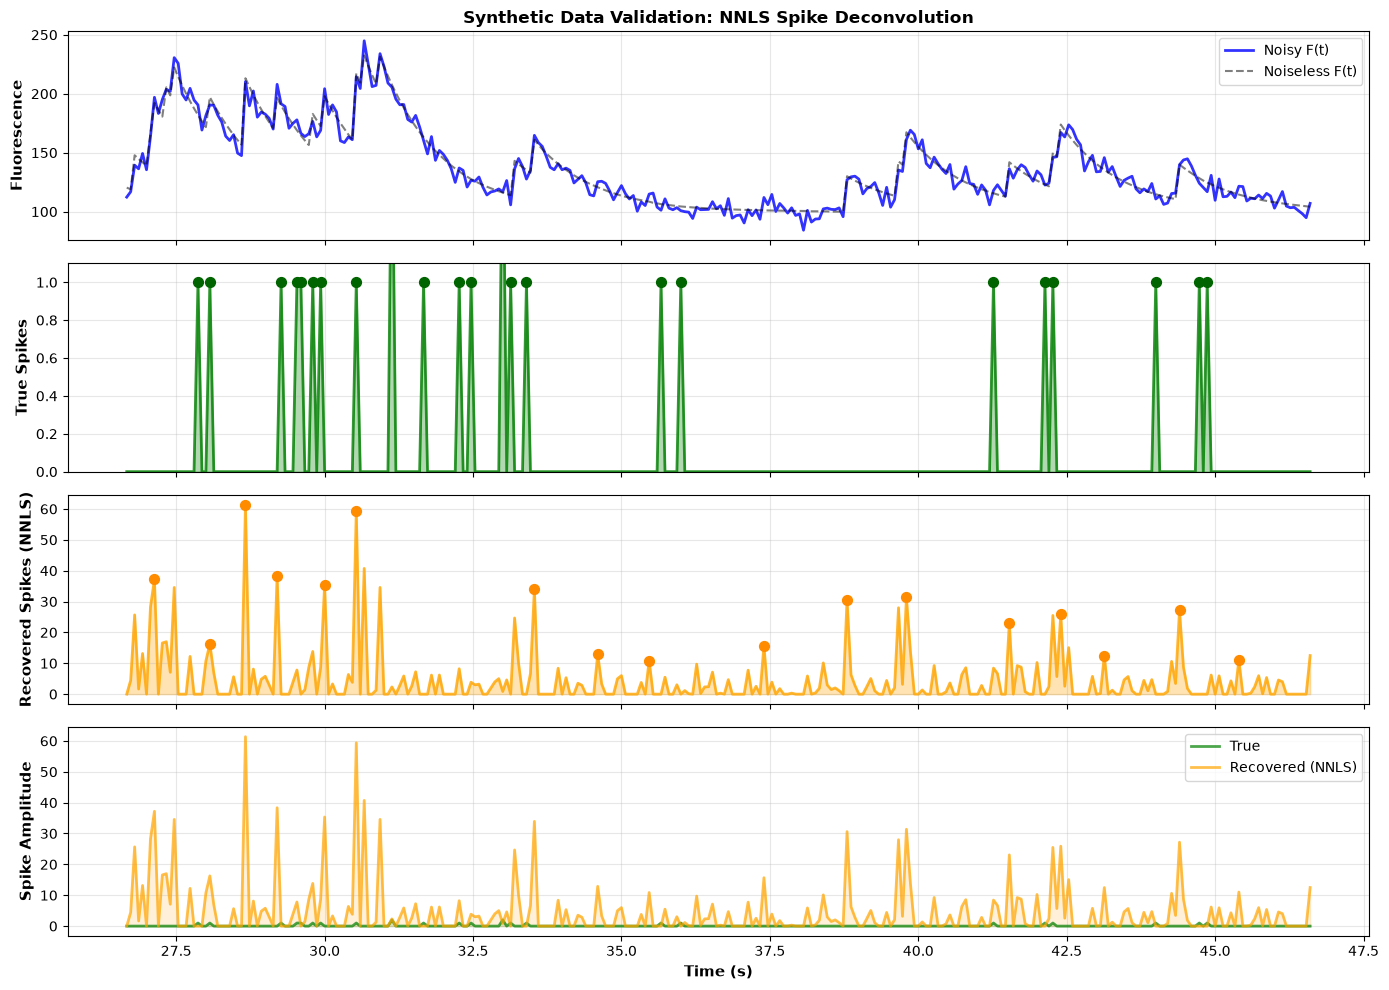
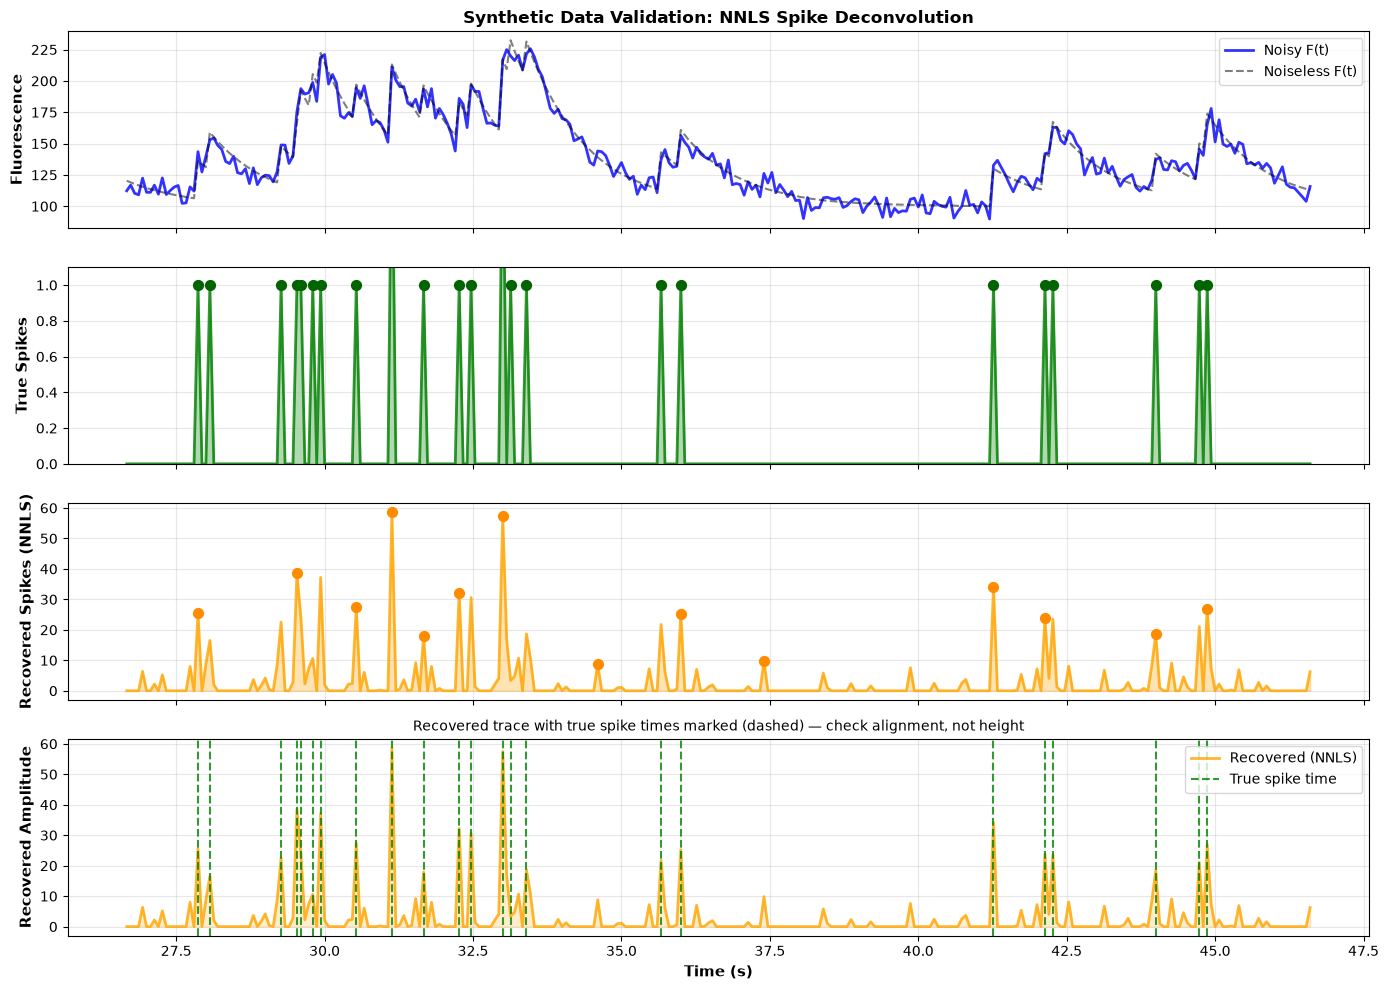
updates

diff --git a/README.md b/README.md
@@ -119,6 +119,8 @@ Once logged in to OnDemand:
 6. Click the **VS Code Server** button that appears
 7. VS Code opens in your browser — you're now on the SCC with everything pre-loaded!
 
+💬 No Cline yet at this point, so if the OnDemand form or the launch itself is confusing, ask a neighbor or an instructor for now — once Cline is installed in the next step, it's also a fine place to ask "what did I just do, and why?" retroactively.
+
 ---
 
 ### Step 2: Set Up an AI Coding Assistant
@@ -144,6 +146,8 @@ Once installed and configured:
 - Ask questions like: "My correlations didn't decrease. What's wrong?" or "Explain neuropil correction"
 - Cline will help you debug, explain code, and suggest improvements
 
+💬 Before trusting Cline with anything real, give it a trivial first task — e.g. "print the numbers 1 to 10" — just to confirm the API key and model are actually wired up correctly. Cheaper to catch a setup problem now than mid-exercise.
+
 ### Usage Limits
 
 You get **500 requests per day** with `gemini-3.1-flash-lite`. Check usage at:
@@ -152,6 +156,8 @@ You get **500 requests per day** with `gemini-3.1-flash-lite`. Check usage at:
 If you run out:
 - Switch to `gemma-4-26b-a4b-it` (1.5K requests/day, less capable)
 - Contact an instructor for unlimited access via our Google Cloud Project
+
+💬 500/day sounds like a lot until you're mid-debug and firing off a request every minute. If you're not sure whether something is worth "spending" a request on, batching a few related questions into one message is usually better than several small back-and-forths.
 
 ---
 
@@ -170,6 +176,8 @@ Cline will execute these commands for you. Then verify it worked by running `ls 
 > "Create a new git branch for my work. Call it `username`" 
 
 (Replace `username` with your SCC username.) This creates your personal branch where you'll commit your progress. Then confirm with `git branch` in a terminal. 
+
+💬 If "branch," "clone," or "commit" are unfamiliar git vocabulary, ask Cline to explain them using this exact situation as the example — much more concrete than a generic git tutorial.
 
 **Important**: After you complete progress on each exercise, commit and push your work:
 
@@ -200,6 +208,8 @@ Now that Cline is installed, use it to set up your Python environment.
 
 Cline will execute these commands for you. You should see `(.venv)` in your terminal prompt when done.
 
+💬 If you've never used a virtual environment before and are wondering why we don't just `pip install` directly, ask Cline — it's a good five-minute detour, and understanding it now will save confusion the first time you juggle two projects with conflicting package versions.
+
 ---
 
 ## Your Work Directory Structure
@@ -220,6 +230,8 @@ Cline will execute these commands for you. You should see `(.venv)` in your term
 │
 └── (data accessed from /projectnb2/npcr25/projects/two_photon/.../processed/)
 ```
+
+💬 Rather than creating these notebooks by hand, ask Cline to set up the `tutorials/friday_exercises/` folder and create empty starter notebooks for each exercise — a natural first real task now that it's installed.
 
 ---
 
@@ -265,6 +277,8 @@ That raw video has already been run through **Suite2p** (see below) to produce t
 5. **Quality scoring**: Assigns a quality-of-detection index to every cell, rating confidence that each ROI is a real neuron
 
 The result is a folder full of `.npy` files containing all the processed data.
+
+💬 If any of Sparsery, OASIS, or "neuropil mask" is unfamiliar jargon, ask Cline to explain it before you get to the exercise that depends on it — much easier to build on a concept you already have some grip on than to learn it and implement it in the same sitting.
 
 ### The Files You'll Load
 
@@ -453,7 +467,9 @@ Calcium indicators respond **slowly** to spikes. A single spike (~1 ms) triggers
 
 $$F(t) = \text{baseline} + \sum_{\text{spikes}} h(t - t_s) + \text{noise}, \qquad h(t) = \exp(-t/\tau)$$
 
-Given the observed $F(t)$, you must **invert** this to recover the spike times.
+Given the observed $F(t)$, you must **invert** this to recover the spike times — concretely, minimize $\frac{1}{2n}\|F - Hs\|_2^2 + \lambda\|s\|_1$ subject to $s \geq 0$, where $H$ is the Toeplitz convolution matrix built from the kernel.
+
+**One clarification worth making explicit now, because it shapes everything downstream**: neither Suite2p's OASIS nor the method you'll build actually outputs a "spike happened here: yes/no" signal. What comes out — Suite2p's `spks.npy`, and your own recovered $s$ — is a continuous **spike amplitude** at every frame: a number meant to represent roughly how much spiking activity contributed to that frame, not a discrete event. It can be exactly zero (no activity), small (a little residual uncertainty about where a nearby spike's mass belongs), or large (one spike, or several spikes close enough together to blend into one frame). This is exactly why you'll need an *extra* step (finding peaks in that continuous output) to get discrete spike times out of it — the raw deconvolution doesn't hand you events, it hands you a curve you still have to interpret. It's also why Deliverable 2 compares your output and Suite2p's output by *correlating two continuous traces* rather than counting matched discrete events: both are estimates of the same underlying continuous quantity, not two lists of binary spikes to line up.
 
 💬 "Invert this" is doing a lot of work in one sentence. If it's not obvious why this is hard — why you can't just look at where $F(t)$ jumps up — ask Cline to explain what happens when two spikes fire close together and their two exponential decays add on top of each other. Seeing that overlap concretely is most of the intuition you need for the rest of this exercise.
 
@@ -472,41 +488,39 @@ Suite2p's algorithm, **OASIS** ([docs](https://suite2p.readthedocs.io/en/latest/
 **Scaffolding for the L1 (Lasso) solve** — this is the part most likely to trip you up, so here's the concrete shape of it:
 
 1. Build the kernel as a 1D array: `h = np.exp(-t_kernel / tau)`, where `t_kernel` covers ~5τ worth of frames (long enough for the exponential to decay to near zero).
-2. Build the Toeplitz convolution matrix $H$ (shape `n_frames × n_frames`), where each column is the kernel shifted down by one frame: for `i in range(n_frames)`, for `k in range(len(h))`, set `H[i+k, i] = h[k]` (skip if `i+k >= n_frames`). Column `i` of $H$ is "what the fluorescence looks like if there's exactly one spike at frame `i`" — multiplying $H$ by a spike vector $s$ gives you back a fluorescence trace.
-3. Subtract off the baseline from your fluorescence (`F - F.min()`, or similar) so the target you're fitting against starts near zero, matching what $Hs$ produces for an all-zero spike train.
-4. Fit `sklearn.linear_model.Lasso(alpha=..., positive=True).fit(H, F_baseline_subtracted)`. The `.coef_` attribute *is* your recovered spike-amplitude vector $s$ — no separate "solve" step needed beyond this one `.fit()` call.
-5. `alpha` controls sparsity: start small (e.g. `0.001` for data on the ~100-count scale) and adjust. All-zero output → `alpha` too large. Way more nonzero entries than plausible spikes → `alpha` too small.
-6. Find discrete spike times with `scipy.signal.find_peaks(s, height=s.max() * 0.15, distance=...)` — a height relative to that trace's own max, not an absolute number, since amplitude scale varies.
+2. Convolve your spike train with the kernel to generate synthetic fluorescence, using `np.convolve(spikes, h, mode='full')[:n_frames]` — **not** `mode='same'` (see the ⚠ below; this one is a real pitfall, not a style choice).
+3. Build the Toeplitz convolution matrix $H$ (shape `n_frames × n_frames`), where each column is the kernel shifted down by one frame: for `i in range(n_frames)`, for `k in range(len(h))`, set `H[i+k, i] = h[k]` (skip if `i+k >= n_frames`). Column `i` of $H$ is "what the fluorescence looks like if there's exactly one spike at frame `i`" — multiplying $H$ by a spike vector $s$ gives you back a fluorescence trace.
+4. Subtract off the baseline from your fluorescence (`F - F.min()`, or similar) so the target you're fitting against starts near zero, matching what $Hs$ produces for an all-zero spike train.
+5. Fit `sklearn.linear_model.Lasso(alpha=..., positive=True).fit(H, F_baseline_subtracted)`. The `.coef_` attribute *is* your recovered spike-amplitude vector $s$ — no separate "solve" step needed beyond this one `.fit()` call.
+6. `alpha` controls sparsity: start small (e.g. `0.002` for data on the ~100-count scale) and adjust. All-zero output → `alpha` too large. Way more nonzero entries than plausible spikes → `alpha` too small.
+7. Find discrete spike times with `scipy.signal.find_peaks(s, height=s.max() * 0.15, distance=...)` — a height relative to that trace's own max, not an absolute number, since amplitude scale varies.
 
-⚠ Two things that will silently break this:
-- **Use a non-negative Lasso**, not `scipy.optimize.nnls` plus a smoothness penalty. Spikes are sparse impulses, not smooth curves; a smoothness penalty (penalizing differences between neighboring $s$ values) fights against recovering them.
+⚠ Three things that will silently break this — the first one is the sneakiest, because everything still *runs*, it just quietly recovers much worse spikes:
+- **Generate the synthetic fluorescence with a causal convolution, matching $H$.** `np.convolve(spikes, h, mode='same')` **centers** the kernel around each spike, so the spike's effect leaks *backward* in time too. But $H$ (above) is built causally — a spike at frame $i$ only ever affects frames $i, i+1, i+2, \ldots$, never anything before $i$. If your synthetic data generator and your $H$ matrix disagree about this, every recovered spike lands a few frames away from where it actually should, and it looks like scattered false positives and false negatives — not an obviously "wrong" result, just a much worse one. Use `mode='full'` and truncate to `n_frames`, not `mode='same'`.
+- **Use a non-negative Lasso**, not `scipy.optimize.nnls` plus a smoothness penalty. Here's concretely what the two penalties do to the recovered vector $s$, since "L1 vs. smoothness" is easy to wave your hands at and hard to actually picture:
+  - **L1 penalty** ($\sum |s_i|$, what Lasso minimizes): the cheapest way to shrink this is to push individual entries of $s$ to exactly zero. It has no preference for *which* entries — it just wants as few nonzero entries as possible, each carrying whatever amplitude it needs. That matches a real spike train: long stretches of exact zero, punctuated by isolated nonzero frames.
+  - **Smoothness penalty** ($\sum (s_i - s_{i-1})^2$, a differencing penalty): the cheapest way to shrink *this* is to make neighboring entries similar to each other. Applied to a true spike — one frame with value 1, its neighbors at 0 — this penalty is minimized by *spreading that 1 out* across several neighboring frames instead (e.g. three frames at ~0.33 each has smaller squared differences than one frame at 1 next to zeros). The penalty is structurally rewarded for blurring exactly the sharp jump you're trying to recover.
+  
+  That blurring is the literal mechanism behind why a smoothness penalty produces smeared, hard-to-read output instead of clean, isolated spikes — it isn't a minor implementation detail, it's the whole reason the earlier (worse) version of this exercise looked messy.
 - **Match peaks, not frames.** The recovered trace spreads across several frames around each real event. Find peaks in it and match each to the nearest true spike within a small tolerance window — comparing frame-by-frame manufactures false positives out of one event's own shoulders.
 
-💬 This is the most mathematically involved exercise — if the inverse problem, the Toeplitz matrix, or why the L1 penalty matters doesn't click, ask Cline to walk through it with a concrete small example (e.g. 3 spikes, a short kernel). Also a good exercise to ask Cline to help tune `alpha` if your solver returns all zeros or way too many spikes.
+💬 If "the L1 penalty prefers sparsity, the smoothness penalty prefers blurring" is still abstract, ask Cline to run both penalties on the same tiny example — say, a single isolated spike, `s = [0, 0, 1, 0, 0]` — and show you what each one's minimizer actually looks like. Seeing the two outputs side by side on one spike is much more convincing than any explanation in prose.
+
+💬 This is also the most mathematically involved exercise overall — if the inverse problem or the Toeplitz matrix itself doesn't click, ask Cline to walk through it with a concrete small example (3 spikes, a short kernel). Also a good exercise to ask Cline to help tune `alpha` if your solver returns all zeros or way too many spikes.
 
 ### Deliverable 2 — Real Data
 
 **Data**: Use a subset of run02-054 — e.g. the first 30 good-quality cells and the first 2000 frames (~2.2 minutes). The deconvolution below solves an $n_{\text{frames}} \times n_{\text{frames}}$ system per cell, so runtime grows fast with both cell count and frame count; a subset keeps this tractable. The benchmarks below were measured on exactly this subset — running on the full 113 cells × 4535 frames will work but will be much slower, and your numbers may shift somewhat since more/different cells are included.
 
-**Method**: For each cell in your subset, estimate its own τ from the autocovariance of its fluorescence trace (fit the exponential decay slope across several lags — don't assume Suite2p's fixed 1.0s applies to every cell). Deconvolve real fluorescence with that cell's own kernel using the same Lasso approach as Deliverable 1 (note: `alpha` will likely need to be much larger here — real fluorescence is on a much bigger absolute scale than the synthetic data).
+**Method**: For each cell in your subset, estimate its own τ from the autocovariance of its fluorescence trace — for exponential decay, $\text{acov}[\text{lag}] \propto \gamma^{\text{lag}}$ where $\gamma = \exp(-1/(\tau \cdot \text{frame\_rate}))$, so fit $\log(\text{acov})$ vs. lag over several lags (a single two-point ratio is too noisy for one real trace) and don't assume Suite2p's fixed 1.0s applies to every cell. Deconvolve real fluorescence with that cell's own kernel using the same Lasso approach as Deliverable 1 (note: `alpha` will likely need to be much larger here — real fluorescence is on a much bigger absolute scale than the synthetic data).
 
 💬 If "autocovariance" and "fitting the decay slope" feel like a black box, ask Cline to generate a synthetic exponential-decay trace with a known τ and walk through recovering that τ step by step — much easier to trust the method on real cells once you've seen it recover a number you already know is correct.
 
 Then compare against Suite2p's spike inference (`spks.npy`) — but **not** with sensitivity/precision/F1. Suite2p's own documentation doesn't define any threshold for turning its continuous output into discrete spike events; it's meant to be used as a continuous trace. Inventing your own threshold just to force a sensitivity/precision number would mean that number partly reflects your arbitrary threshold choice, not real agreement between the two methods. Instead, **correlate the two continuous traces directly**, per cell — no threshold needed.
 
-⚠ This is a different metric than Deliverable 1 on purpose: Deliverable 1 has real discrete ground truth (you generated the spikes), so sensitivity/precision/F1 makes sense there. Deliverable 2's real-data comparison has no discrete ground truth — just two different continuous estimates — so a continuous correlation is the honest comparison.
-
 **Results should look something like this** (this dataset):
-- **Deliverable 1 (synthetic, SNR ≈ 3)**: F1 ≈ 0.34 (sensitivity 32%, precision 37%) — modest. Deconvolving overlapping, noisy transients is a genuinely hard problem; don't expect near-perfect recovery from a basic solver.
-- **Deliverable 2 (real data)**: per-cell τ ranges ~0.17–2.3s, median ≈ 0.41s — clearly not one-size-fits-all, and mostly below Suite2p's fixed 1.0s. Correlation with Suite2p's spike inference: mean r ≈ **0.81**, median ≈ **0.85** across 30 cells, with 29/30 cells above r = 0.5 — strong agreement despite the two methods using completely different algorithms.
-
-### Implementation Notes
-
-- **The inverse problem**: minimize $\frac{1}{2n}\|F - Hs\|_2^2 + \lambda\|s\|_1$ subject to $s \geq 0$, where $H$ is the Toeplitz convolution matrix built from the kernel
-- **Use L1 sparsity, not smoothness.** Most timepoints have no spike — a penalty on $s$ itself matches that. A penalty on *differences between neighbors* pushes toward smooth, spread-out solutions, the opposite of what a spike train looks like.
-- **Match peaks, not frames.** The kernel spans many frames, so one real event produces a broad bump — comparing that bump frame-by-frame against a single ground-truth frame manufactures false positives out of its own shoulders.
-- **Estimating γ**: for exponential decay, $\text{acov}[\text{lag}] \propto \gamma^{\text{lag}}$ where $\gamma = \exp(-1/(\tau \cdot \text{frame\_rate}))$. Fit $\log(\text{acov})$ vs. lag over several lags — one two-point ratio is too noisy for a single real trace.
-- **Tune `alpha` (the L1 penalty) by scale.** Too large and the solver returns all zeros; too small and it overfits noise. Real fluorescence (hundreds–thousands of counts) needs a much larger `alpha` than the synthetic data in Deliverable 1 to have a comparable effect.
+- **Deliverable 1 (synthetic, SNR ≈ 3)** — scored with sensitivity/precision/F1 against the ground truth *you generated*: F1 ≈ 0.81 (sensitivity 70%, precision 97%) — good but not perfect. Precision is high (few false alarms), sensitivity is lower (some real events still get missed) — noisy, overlapping transients are still a genuinely hard problem, just not an intractable one once the forward/inverse models actually agree on alignment.
+- **Deliverable 2 (real data)** — no ground truth here, so scored by correlation instead: per-cell τ ranges ~0.17–2.3s, median ≈ 0.41s — clearly not one-size-fits-all, and mostly below Suite2p's fixed 1.0s. Correlation with Suite2p's spike inference: mean r ≈ **0.81**, median ≈ **0.85** across 30 cells, with 29/30 cells above r = 0.5 — strong agreement despite the two methods using completely different algorithms.
 
 ### What Your Results Might Look Like
 
@@ -514,7 +528,7 @@ Then compare against Suite2p's spike inference (`spks.npy`) — but **not** with
 
 ![Synthetic spike recovery](assets/exercise2_synthetic_validation.png)
 
-*Top: noisy vs. noiseless synthetic fluorescence. Middle two rows: true spikes vs. recovered spikes. Bottom: overlay. Recovery is imperfect — some true events are missed, and the recovered trace has spurious small peaks — consistent with F1 ≈ 0.34.*
+*Top: noisy vs. noiseless synthetic fluorescence. Middle two rows: true spikes vs. recovered spikes, on their own natural scales. Bottom: the recovered trace with true spike times marked as vertical dashed lines — deliberately not plotted on a shared amplitude axis with the (binary) true spikes, since that would make the true spikes invisible. Recovery is good but not exact — most dashed lines land right on a recovered peak, a handful of true spikes are missed, and a few small spurious peaks remain — consistent with F1 ≈ 0.81.*
 
 **Per-cell kernel estimation (part of Deliverable 2):**
 
@@ -560,6 +574,17 @@ In this exercise, you'll build something much simpler — a detector that only l
 Detect cells from the static mean image alone (smooth → threshold → connected components), match your detections against Suite2p's ROI centers by pixel distance, and report sensitivity and precision. Then look at your false positives and false negatives: where do they cluster, and why?
 
 ⚠ Use `ops['meanImg']` (from `ops.npy`) for the image — **not** `F.mean(axis=1)`, which gives one number per already-detected cell, not a spatial image at all.
+
+**Scaffolding for the detector** — the concrete shape of "smooth → threshold → connected components":
+
+1. Smooth the mean image lightly: `scipy.ndimage.gaussian_filter(mean_img, sigma=~0.7)`. This isn't optional cosmetic smoothing — it merges single-pixel noise specks into the shape of the blob they're part of, before you threshold.
+2. Pick a threshold as a percentile of the smoothed image's pixel values (`np.percentile(smoothed, p)`), not a fixed count — raw brightness varies a lot by dataset, but "top X% of pixels" is comparable across datasets. Start high (try 95–99); the intuitive "80th percentile" choice lets in far more diffuse neuropil than you'd expect.
+3. Threshold to get a binary mask: `binary = smoothed > threshold`.
+4. Label connected regions of that mask: `labeled, n = scipy.ndimage.label(binary)`. Each labeled region is one candidate detection.
+5. For each labeled region, compute its pixel count and its centroid (mean of its pixel coordinates). Keep only regions whose pixel count falls in a range matching real cell sizes — this dataset's own ROIs span 31–1173 pixels, so a bare `> 10` floor keeps far too much noise and neuropil debris.
+6. For each surviving centroid, find the nearest Suite2p ROI center (from `stat[i]['med']`) and call it a match if the distance is under some threshold (e.g. 30 pixels ≈ 12 μm). Count matches, your unmatched detections (false positives), and unmatched Suite2p ROIs (false negatives) to get sensitivity and precision.
+
+💬 If you're not sure what a "connected component" actually is, ask Cline to visualize a toy 10×10 binary grid with a couple of blobs on it, run `scipy.ndimage.label` on it, and show you the resulting labeled array — much more concrete than the general idea of "grouping touching pixels."
 
 💬 If your sensitivity/precision look nowhere close to the numbers below (e.g. both near 0%), that's usually a sign something upstream is off — wrong image, wrong coordinate order, or a threshold that's degenerate. Describe your numbers to Cline and it can help you narrow down where.
 
